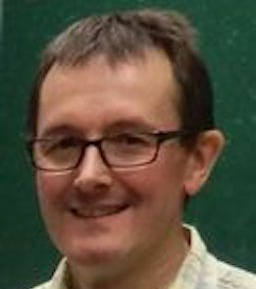
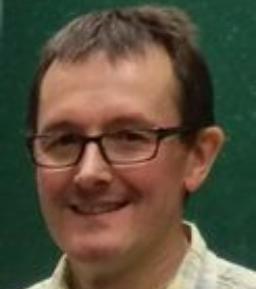
images

diff --git a/template/index.html b/template/index.html
@@ -298,7 +298,7 @@
                  data-wow-delay="300ms">
                 <div class="row">
                     <div class="col-sm-8 col-sm-push-2">
-                        <img src="images/team/Christophe%20Maheo.jpg" alt="photo de Christophe Maheo"
+                        <img src="images/team/Christophe%20Maheo.png" alt="photo de Christophe Maheo"
                              class="img-responsive img-circle"
                              width="100px">
                     </div>
@@ -502,7 +502,7 @@
                 <div class="col-sm-3">
                     <div class="team-member wow flipInY" data-wow-duration="1000ms" data-wow-delay="300ms">
                         <div class="member-image">
-                            <img class="img-responsive img-rounded" src="images/team/Christophe%20Maheo.jpg"
+                            <img class="img-responsive img-rounded" src="images/team/Christophe%20Maheo.png"
                                  alt="photo de christophe maheo">
                         </div>
                         <div class="member-info">
